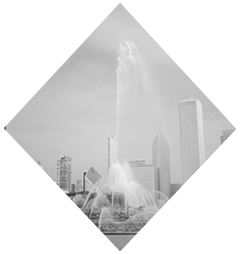
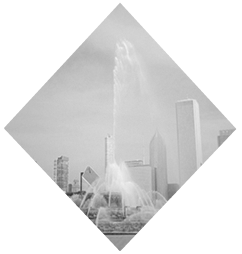
fix image size on events page

diff --git a/venue.html b/venue.html
@@ -5,18 +5,18 @@ layout: default
 <section class="pattern">
   <h1>Venue</h1>
   <hr>
-  <div class="wrapper large">
-    <img class="primary-size" src="{{ site.baseurl }}/images/venue-diamond.png">
+  <img class="primary-size" src="{{ site.baseurl }}/images/venue-diamond.png">
+  <div class="wrapper medium">
     <h2>Mid-America Club</h2>
-    <hr>
-    <p class="center">This years conference will be held at the Mid-America Club on the 80th floor of the AON Center.</p>
+    <hr class="full-width">
+    <p>This years conference will be held at the Mid-America Club on the 80th floor of the AON Center.</p>
   </div>
 </section>
 
-<section class="white">
+<section class="white center">
   <div class="wrapper cf">
     <div class="column third">
-      <img class="plain-diamond" src="{{ site.baseurl }}/images/diamond-plain.png">
+      <img class="secondary-size" src="{{ site.baseurl }}/images/diamond-plain.png">
       <h3>About</h3>
       <hr>
       <div class="text-box">
@@ -24,46 +24,42 @@ layout: default
       </div>
     </div>
     <div class="column third">
-      <img class="plain-diamond" src="{{ site.baseurl }}/images/diamond-plain.png">
+      <img class="secondary-size" src="{{ site.baseurl }}/images/diamond-plain.png">
       <h3>Necessitites</h3>
       <hr>
       <div class="text-box">
-        <p>Please be aware that the building security will require you to carry a drivers license in order to enter the premises and access the conference.</p>
+        <p>Please be aware that you are required to carry a drivers license in order to enter the premises and access the conference.</p>
       </div>
     </div>
     <div class="column third">
-      <img class="plain-diamond" src="{{ site.baseurl }}/images/diamond-plain.png">
+      <img class="secondary-size" src="{{ site.baseurl }}/images/diamond-plain.png">
       <h3>Attire</h3>
       <hr>
       <div class="text-box">
-        <p>Keep in mind the following dress code when arriving: business casual, including jeans and tennis shoes, but no shorts or sandals.</p>
+        <p>Keep in mind the following dress code: business casual, including jeans and tennis shoes, but no shorts or sandals.</p>
       </div>
     </div>
   </div>
 </section>
 
-<section class="white">
-  <div class="wrapper small">
+<section class="white padding-bottom-none">
+  <div class="wrapper center">
     <h1>Location</h1>
     <hr>
-    <ul>
-      <li>The AON Center</li>
-      <li>200 E Randolph Dr</li>
-      <li>80th Floor</li>
-      <li>Chicago, IL 60601</li>
-    </ul>
+      <ul>
+        <li>The AON Center</li>
+        <li>200 E Randolph Dr</li>
+        <li>80th Floor</li>
+        <li>Chicago, IL 60601</li>
+      </ul>
     <hr>
-  </div>
-    <a href="https://www.google.com/maps/preview?q=Aon+Center,+Chicago,+IL+60601">
-    <img src="{{ site.baseurl }}/images/map-blk.jpg">
-    </a>
 </section>
 
+<section class="hero-image location-hero"></section>
+
 <section class="white">
-  <div class="wrapper xsmall">
-    <h1>Hotels</h1>
-    <hr>
-  </div>
+  <h1>Hotels</h1>
+  <hr>
   <div class="wrapper cf">
     <div class="row">
       <div class="column third">
@@ -71,7 +67,7 @@ layout: default
         <ul>
           <li>200 N Columbus Dr</li>
           <li>312.565.8000</li>
-          <li class="blue-text">Map</li>
+          <a href="https://www.google.com/maps/place/200+N+Columbus+Dr/@41.8860116,-87.6209381,17z/data=!3m1!4b1!4m2!3m1!1s0x880e2ca867aafd15:0x3f4676b9120fdeef"><li>Map</li></a>
         </ul>
       </div>
       <div class="column third">
@@ -79,7 +75,7 @@ layout: default
         <ul>
           <li>320 N Michigan Ave</li>
           <li>312.384.1208</li>
-          <li class="blue-text">Map</li>
+          <a href="https://www.google.com/maps/place/320+N+Michigan+Ave/@41.8873995,-87.6247596,17z/data=!3m1!4b1!4m2!3m1!1s0x880e2caf1ec8dc99:0xeb118dd0170912cf"><li>Map</li></a>
         </ul>
       </div>
       <div class="column third">
@@ -87,7 +83,7 @@ layout: default
         <ul>
           <li>75 E Wacker Dr</li>
           <li>312.777.0990</li>
-          <li class="blue-text">Map</li>
+          <a href="https://www.google.com/maps/place/75+E+Upper+Wacker+Dr/@41.887627,-87.625443,17z/data=!3m1!4b1!4m2!3m1!1s0x880e2caf02cde75b:0x8262ec99f4d30def"><li>Map</li></a>
         </ul>
       </div>
     </div>
@@ -96,9 +92,9 @@ layout: default
       <div class="column third">
         <h4>Hard Rock Hotel</h4>
         <ul>
-          <li>230 N Michigan Ave </li>
+          <li>230 N Michigan Ave</li>
           <li>312.345.1000</li>
-          <li class="blue-text">Map</li>
+          <a href="230 N Michigan Ave"><li>Map</li></a>
         </ul>
       </div>
     </div>
@@ -116,32 +112,31 @@ layout: default
         <h4>O'Hare Airport</h4>
         <ul>
           <li>10000 W O'Hare Ave</li>
-          <li class="blue-text">Map</li>
+          <a href="https://www.google.com/maps/place/Chicago+O'Hare+International+Airport/@41.974162,-87.907321,17z/data=!3m1!4b1!4m2!3m1!1s0x880fb4276a7762f3:0x511747070259ad4b"><li>Map</li></a>
         </ul>
       </div>
       <div class="column third">
         <h4>Midway Airport</h4>
         <ul>
           <li>5700 S Cicero Ave</li>
-          <li class="blue-text">Map</li>
+          <a href="https://www.google.com/maps/place/5700+S+Cicero+Ave/@41.7883464,-87.7417638,17z/data=!3m1!4b1!4m2!3m1!1s0x880e3108aa5a6b71:0x13181258b414be66"><li>Map</li></a>
         </ul>
       </div>
       <div class="column third">
         <h4>Blue Line/Red Line (L)</h4>
         <ul>
           <li>Chicago Transit Authority</li>
-          <li class="blue-text">Schedule</li>
+          <a href="http://www.transitchicago.com/travel_information/allrailschedules.aspx"><li>Schedule</li></a>
         </ul>
       </div>
     </div>
 
     <div class="row">
-
       <div class="column third">
         <h4>Bus</h4>
         <ul>
           <li>Chicago Transit Authority</li>
-          <li class="blue-text">Schedule</li>
+          <a href="http://www.transitchicago.com/travel_information/bus_schedules.aspx"><li>Schedule</li></a>
         </ul>
       </div>
     </div>

diff --git a/sponsors.html b/sponsors.html
@@ -4,32 +4,28 @@ layout: default
 
 <section class="pattern">
   <div class="wrapper sponsor-wrap">
-    <h2 class="margin-bottom-small">Interested in what we do?</h2>
+    <h2>Interested in what we do?</h2>
     <h1>Become A Sponsor</h1>
     <button type="submit" class="button primary">view prospectus</button>
   </div>
 </section>
 
-<section class="hero-image sponsors-hero">
-</section>
+<section class="hero-image sponsors-hero"></section>
 
 <section class="white">
   <h1>Sponsors</h1>
   <hr>
-
-  <div class="wrapper xlarge cf">
+  <div class="wrapper cf">
     <div class="row">
       <div class="column third">
         <img class="secondary-size" src="{{ site.baseurl }}/images/8thlight-logo.png">
         <p>8th Light, Inc. is a Chicago-based Agile software development company with expertise in a variety of programming languages that writes beautiful applications for your web, mobile, and embedded projects. 8th Light also offers apprenticeships to push the limits of your knowledge in software development.</p>
         <p>8th Light — Software is our craft™</p>
       </div>
-
       <div class="column third">
         <img class="secondary-size" src="{{ site.baseurl }}/images/github_logo.png">
         <p>GitHub is the best way to build software together. GitHub provides tools for easier collaboration and code sharing from any device. Start collaborating today — open source project hosting is free.</p>
       </div>
-
       <div class="column third">
         <img class="secondary-size" src="{{ site.baseurl }}/images/ncsa_logo.png">
         <p>NCSA is the exclusive athletic recruiting network that educates, assists, and connects families, coaches and companies so they can save time and money, get ahead and give back.</p>
@@ -45,25 +41,21 @@ layout: default
   </div>
 </section>
 
-<section class="hero-image sponsors-hero-two">
-</section>
+<section class="hero-image sponsors-hero-two"></section>
 
 <section class="white">
   <h1>Media Sponsors</h1>
   <hr>
-
-  <div class="wrapper xlarge cf">
+  <div class="wrapper cf">
     <div class="row">
       <div class="column third">
         <img class="secondary-size" src="{{ site.baseurl }}/images/clean-coders.jpg">
         <p>Clean Coders is all about educational videos for software professionals, by software professionals. Our code-casts are rich with content and entertainment! Watch instantly at cleancoders.com and change the way you think about code, about design, about your disciplines, and about your profession.</p>
       </div>
-
       <div class="column third">
         <img class="secondary-size" src="{{ site.baseurl }}/images/built-in-chicago.jpg">
         <p>Built In Chicago is a rapidly growing online community dedicated to promoting digital entrepreneurs and innovators in Chicago. In less than two years, the social startup has positioned Chicago as a leading center for digital technology innovation.</p>
       </div>
-
       <div class="column third">
         <img class="secondary-size" src="{{ site.baseurl }}/images/skills-matter.jpg">
         <p>Skills Matter is a highly social, innovative tech startup, with a mission to support and drive innovation in enterprise software development.</p>
@@ -75,7 +67,6 @@ layout: default
         <img class="secondary-size" src="{{ site.baseurl }}/images/informit.png">
         <p>InformIT is the online presence of the family of information technology publishers and brands of Pearson, the world's largest learning company.</p>
       </div>
-
       <div class="column third">
         <img class="secondary-size" src="{{ site.baseurl }}/images/ugtastic.jpg">
         <p>UGtastic is an ongoing series of conversational interviews with people who make technical communities interesting.</p>

diff --git a/events.html b/events.html
@@ -58,7 +58,7 @@ layout: default
   <div class="wrapper cf">
     <div class="row">
       <div class="column third">
-        <img class="two-hundred" src="{{ site.baseurl }}/images/diamond-networking.png">
+        <img class="primary-size" src="{{ site.baseurl }}/images/diamond-networking.png">
       </div>
       <div class="column two-third">
         <h4>Pre-Registration Networking Event</h4>
@@ -76,7 +76,7 @@ layout: default
   <section class="white">
     <div class="wrapper cf">
       <div class="column third">
-        <img class="two-hundred" src="{{ site.baseurl }}/images/diamond-party.png">
+        <img class="primary-size" src="{{ site.baseurl }}/images/diamond-party.png">
       </div>
       <div class="column two-third">
         <h4>SCNA Party</h4>
@@ -95,7 +95,7 @@ layout: default
   <section class="white">
     <div class="wrapper cf">
       <div class="column third">
-        <img class="two-hundred" src="{{ site.baseurl }}/images/diamond-coffee.png">
+        <img class="primary-size" src="{{ site.baseurl }}/images/diamond-coffee.png">
       </div>
       <div class="column two-third">
         <h4>SCNA Code &amp; Coffee</h4>
@@ -112,7 +112,7 @@ layout: default
 <section class="white">
   <div class="wrapper cf">
     <div class="column third">
-      <img class="two-hundred" src="{{ site.baseurl }}/images/diamond-5k.png">
+      <img class="primary-size" src="{{ site.baseurl }}/images/diamond-5k.png">
     </div>
     <div class="column two-third">
       <h4>SCNA 5k</h4>
@@ -129,7 +129,7 @@ layout: default
   <section class="white">
     <div class="wrapper cf">
       <div class="column third">
-        <img class="two-hundred" src="{{ site.baseurl }}/images/diamond-retreat.png">
+        <img class="primary-size" src="{{ site.baseurl }}/images/diamond-retreat.png">
       </div>
       <div class="column two-third">
         <h4>Code Retreat #2</h4>
@@ -145,7 +145,7 @@ layout: default
   <section class="white">
     <div class="wrapper cf">
       <div class="column third">
-        <img class="two-hundred" src="{{ site.baseurl }}/images/diamond-retreat.png">
+        <img class="primary-size" src="{{ site.baseurl }}/images/diamond-retreat.png">
       </div>
       <div class="column two-third">
         <h4>Code Retreat #3</h4>

diff --git a/css/main.css b/css/main.css
@@ -74,6 +74,7 @@ h1 {
   font-size: 2.1em;
   line-height: 0.8em;
   margin-bottom: .5em;
+  text-align: center;
 }
 
 h2 { font-size: 1.5em; }
@@ -141,14 +142,11 @@ li { list-style: none; }
   max-width: 1200px;
 }
 
-/*.medium { max-width: 370px; }*/
-
-
 .medium { max-width: 500px; }
 
-.xsmall { max-width: 200px; }
-
 .sponsor-wrap { max-width: 379px; }
+
+@media only screen and (max-width: 440px) { .sponsor-wrap { font-size: .9em; } }
 
 /* =================================
   NAVIGATION
@@ -242,6 +240,7 @@ nav li {
 .homepage-hero { background-image: url("../images/scna-hero.jpg"); }
 .sponsors-hero { background-image: url("../images/hero2.jpg"); }
 .sponsors-hero-two { background-image: url("../images/hero4.jpg"); }
+.location-hero { background-image: url("../images/google-map-blk.jpg"); }
 
 .hero-tint {
   position: absolute;
@@ -525,16 +524,14 @@ button[type="submit"]:hover,
 .white {
   background: #fff;
   border-bottom: 1px solid #ecebeb;
+  margin: 0 auto;
   padding: 4em 0;
 }
 
-.grey {
-  background: #e3e3e3;
-  padding: 4em 0;
-}
 .pattern {
   background-image: url("../images/pattern.jpg");
   border-bottom: 1px solid #ecebeb;
+  margin: 0 auto;
   padding: 4em 0;
   text-align: center;
 }
@@ -614,10 +611,7 @@ footer p {
 .padding-none { padding: 0; }
 .padding-bottom-none { padding-bottom: 0; }
 
-.center {
-  margin: 0 auto;
-  text-align: center;
-}
+.center { text-align: center; }
 
 .left { text-align: left; }
 
